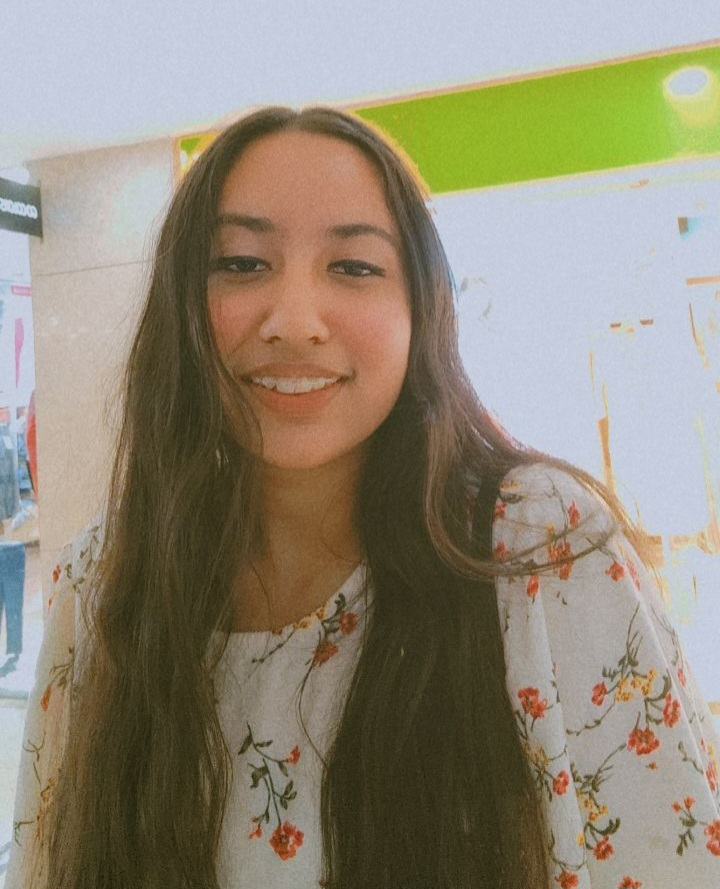
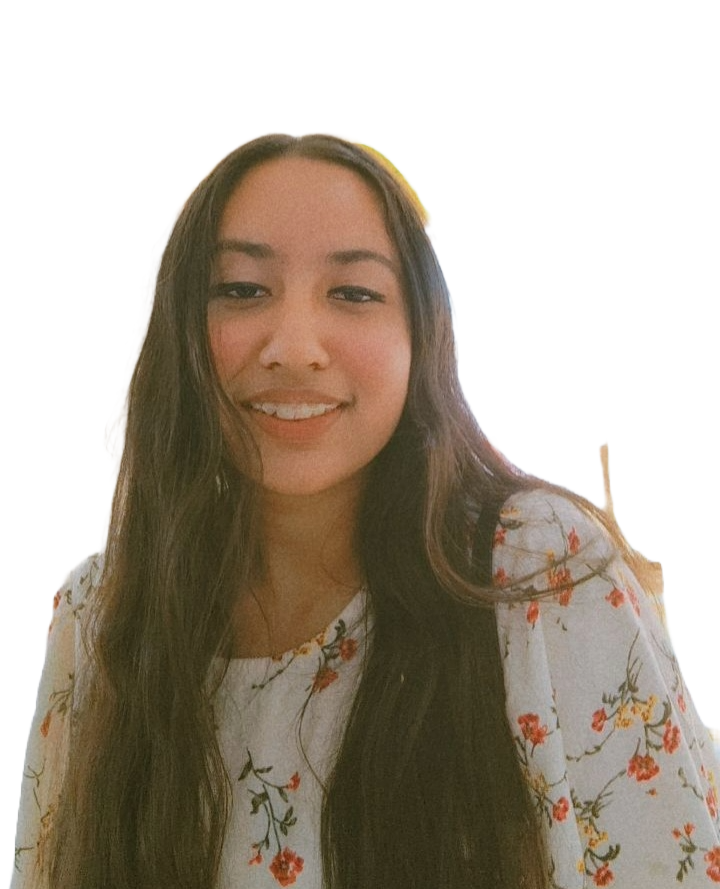
Background removed from User Photo Enhanced the ProfileCard 24.06.25 8pm.

diff --git a/src/components/Team.jsx b/src/components/Team.jsx
@@ -6,70 +6,65 @@ import './Team.css';
 const teamData = {
   leaders: [
     { name: 'Asmit Kumar Roy', title: 'President', avatarUrl: '/Photos/Asmit.png', social: { github: '#', linkedin: '#' } },
-    { name: 'Neelesh Kumar', title: 'Vice-President', social: { github: '#', linkedin: '#' } },
-    { name: 'Akshat Tyagi', title: 'Secretary', social: { github: '#', linkedin: '#' } },
-    { name: 'Kangna Shrivastava', title: 'Treasurer', social: { github: '#', linkedin: '#' } },
-    { name: 'Rishabh Verma', title: 'Deputy Head', social: { github: '#', linkedin: '#' } },
+    { name: 'Neelesh Kumar', title: 'Vice-President', avatarUrl: '/Photos/Neelesh.jpg',social: { github: '#', linkedin: '#' } },
+    { name: 'Akshat Tyagi', title: 'Secretary', avatarUrl: '/Photos/Neelesh.jpg', social: { github: '#', linkedin: '#' } },
+    { name: 'Kangna Shrivastava', title: 'Treasurer', avatarUrl: '/Photos/Kangna.jpg', social: { github: '#', linkedin: '#' } },
+    { name: 'Rishabh Verma', title: 'Deputy Head',avatarUrl: '/Photos/Rishabh.jpg', social: { github: '#', linkedin: '#' } },
   ],
   technical: {
     leads: [
-      { name: 'Alok Kumar Jha', title: 'Head', social: { github: '#', linkedin: '#' } },
-      { name: 'Harsh Naagar', title: 'Co-Head', social: { github: '#', linkedin: '#' } }
+      { name: 'Alok Kumar Jha', title: 'Head', avatarUrl: '/Photos/Harsh.jpg', social: { github: '#', linkedin: '#' } },
+      { name: 'Harsh Naagar', title: 'Co-Head', avatarUrl: '/Photos/Harsh.jpg', social: { github: '#', linkedin: '#' } }
     ],
     members: [
-      { name: 'Ayush Kumar Singh', title: 'Member', social: { github: '#', linkedin: '#' } },
-      { name: 'Ankit Choudhary', title: 'Member', social: { github: '#', linkedin: '#' } },
-      { name: 'Aman Verma', title: 'Member', social: { github: '#', linkedin: '#' } },
-      { name: 'Aman', title: 'Member', social: { github: '#', linkedin: '#' } },
+      { name: 'Ayush Kumar Singh', title: 'Member', avatarUrl: '/Photos/Asmit.png', social: { github: '#', linkedin: '#' } },
+      { name: 'Ankit Choudhary', title: 'Member', avatarUrl: '/Photos/Ankit.jpg', social: { github: '#', linkedin: '#' } },
+      { name: 'Aman Verma', title: 'Member', avatarUrl: '/Photos/Aman.jpg',social: { github: '#', linkedin: '#' } },
+      { name: 'Niharika Kumari', title: 'Member', avatarUrl: '/Photos/Niharika.jpg', social: { github: '#', linkedin: '#' } },
     ]
   },
   graphics: {
     leads: [
-        { name: 'Md. Abdullah Meraj', title: 'Head', social: { github: '#', linkedin: '#' } },
-        { name: 'Priyal Jain', title: 'Co-Head', social: { github: '#', linkedin: '#' } }
+        { name: 'Md. Abdullah Meraj', title: 'Head', avatarUrl: '/Photos/Abdullah.jpg',social: { github: '#', linkedin: '#' } },
+        { name: 'Priyal Jain', title: 'Co-Head', avatarUrl: '/Photos/Priyal.jpg',social: { github: '#', linkedin: '#' } }
     ],
     members: [
-        { name: 'Avishka Bhardwaj', title: 'Member', social: { github: '#', linkedin: '#' } },
-        { name: 'Niharika Kumari', title: 'Member', social: { github: '#', linkedin: '#' } },
-        { name: 'Ankur Pandey', title: 'Member', social: { github: '#', linkedin: '#' } },
-        { name: 'Anantabh Arin Kashyup', title: 'Member', social: { github: '#', linkedin: '#' } }
+        { name: 'Avishka Bhardwaj', title: 'Member', avatarUrl: '/Photos/Avishka.jpg',social: { github: '#', linkedin: '#' } },
+        { name: 'Samaira Khan', title: 'Member', avatarUrl: '/Photos/Samaira.jpg', social: { github: '#', linkedin: '#' } },
+        { name: 'Ankur Pandey', title: 'Member', avatarUrl: '/Photos/Ankur.jpeg',social: { github: '#', linkedin: '#' } },
+        { name: 'Anantabh Kashyup', title: 'Member', avatarUrl: '/Photos/Arin.jpg',social: { github: '#', linkedin: '#' } }
     ]
   },
   management: {
     leads: [
-        { name: 'Anwesha Sen', title: 'Head', social: { github: '#', linkedin: '#' } },
-        { name: 'Akshat Jain', title: 'Co-Head', social: { github: '#', linkedin: '#' } }
+        { name: 'Anwesha Sen', title: 'Head', avatarUrl: '/Photos/Anwesha.jpg',social: { github: '#', linkedin: '#' } },
+        { name: 'Akshat Jain', title: 'Co-Head', avatarUrl: '/Photos/Akshat_Jain.jpg',social: { github: '#', linkedin: '#' } }
     ],
     members: [
-        { name: 'Atula (1)', title: 'Member', social: { github: '#', linkedin: '#' } },
-        { name: 'Atula (2)', title: 'Member', social: { github: '#', linkedin: '#' } },
-        { name: 'Atula (3)', title: 'Member', social: { github: '#', linkedin: '#' } },
-        { name: 'Atula (4)', title: 'Member', social: { github: '#', linkedin: '#' } }
+        { name: 'Atula (1)', title: 'Member', avatarUrl: '/Photos/Atulya.jpg',social: { github: '#', linkedin: '#' } },
+        { name: 'Atula (2)', title: 'Member', avatarUrl: '/Photos/Atulya.jpg',social: { github: '#', linkedin: '#' } },
+        { name: 'Atula (3)', title: 'Member', avatarUrl: '/Photos/Atulya.jpg',social: { github: '#', linkedin: '#' } },
+        { name: 'Atula (4)', title: 'Member', avatarUrl: '/Photos/Atulya.jpg',social: { github: '#', linkedin: '#' } }
     ]
   },
   content: {
     leads: [
-        { name: 'Sanskriti Bishnoi', title: 'Head', social: { github: '#', linkedin: '#' } },
-        { name: 'Rishabh Verma', title: 'Co-Head', social: { github: '#', linkedin: '#' } }
+        { name: 'Sanskriti Bishnoi', title: 'Head', avatarUrl: '/Photos/Sanskriti.jpg',social: { github: '#', linkedin: '#' } },
+        { name: 'Rishabh Verma', title: 'Co-Head', avatarUrl: '/Photos/Rishabh.jpg',social: { github: '#', linkedin: '#' } }
     ],
     members: [
-        { name: 'Vanshika Shrivastava', title: 'Member', social: { github: '#', linkedin: '#' } },
-        { name: 'Shreya Sai', title: 'Member', social: { github: '#', linkedin: '#' } },
-        { name: 'Atula (5)', title: 'Member', social: { github: '#', linkedin: '#' } },
-        { name: 'Atula (6)', title: 'Member', social: { github: '#', linkedin: '#' } }
+        { name: 'Vanshika Shrivastava', title: 'Member', avatarUrl: '/Photos/Vanshika.jpg',social: { github: '#', linkedin: '#' } },
+        { name: 'Shreya Sai', title: 'Member', avatarUrl: '/Photos/Shreya.jpg',social: { github: '#', linkedin: '#' } },
+        
     ]
   },
   social: {
     leads: [
-        { name: 'Pratyush Patwal', title: 'Head', social: { github: '#', linkedin: '#' } },
-        { name: 'Ayush Parashar', title: 'Co-Head', social: { github: '#', linkedin: '#' } }
-    ],
-    members: [
-        { name: 'Atula (7)', title: 'Member', social: { github: '#', linkedin: '#' } },
-        { name: 'Atula (8)', title: 'Member', social: { github: '#', linkedin: '#' } },
-        { name: 'Atula (9)', title: 'Member', social: { github: '#', linkedin: '#' } },
-        { name: 'Atula (10)', title: 'Member', social: { github: '#', linkedin: '#' } }
-    ]
+    { name: 'Pratyush Patwal', title: 'Head', avatarUrl: '/Photos/Pratyush.jpg',social: { github: '#', linkedin: '#' } },
+    // This line was corrected from 'savatarUrl' to 'avatarUrl'
+    { name: 'Ayush Parashar', title: 'Co-Head', avatarUrl: '/Photos/Ayush_Parashar.jpg', social: { github: '#', linkedin: '#' } } 
+],
+    members: []
   },
 };
 

diff --git a/src/components/ProfileCard.css b/src/components/ProfileCard.css
@@ -184,6 +184,10 @@
 .pc-avatar-content .avatar {
   width: 100%;
   position: absolute;
+  height: 100%;
+  object-fit: cover;
+  
+  bottom: 25%;
   left: 50%;
   transform: translateX(-50%) scale(1);
   bottom: 2px;
@@ -294,7 +298,7 @@
 .pc-details {
   width: 100%;
   position: absolute;
-  top: 3em;
+  top: 21em;
   display: flex;
   flex-direction: column;
 }
@@ -304,7 +308,7 @@
   margin: 0;
   font-size: min(5svh, 3em);
   margin: 0;
-  background-image: linear-gradient(to bottom, #fff, #6f6fbe);
+  background-image: linear-gradient(to bottom, #ffffff, #fcf9f9);
   background-size: 1em 1.5em;
   -webkit-text-fill-color: transparent;
   background-clip: text;
@@ -319,7 +323,7 @@
   font-size: 30px;
   margin: 0 auto;
   width: min-content;
-  background-image: linear-gradient(to bottom, #fff, #4a4ac0);
+  background-image: linear-gradient(to bottom, #fff, #fefefe);
   background-size: 1em 1.5em;
   -webkit-text-fill-color: transparent;
   background-clip: text;
